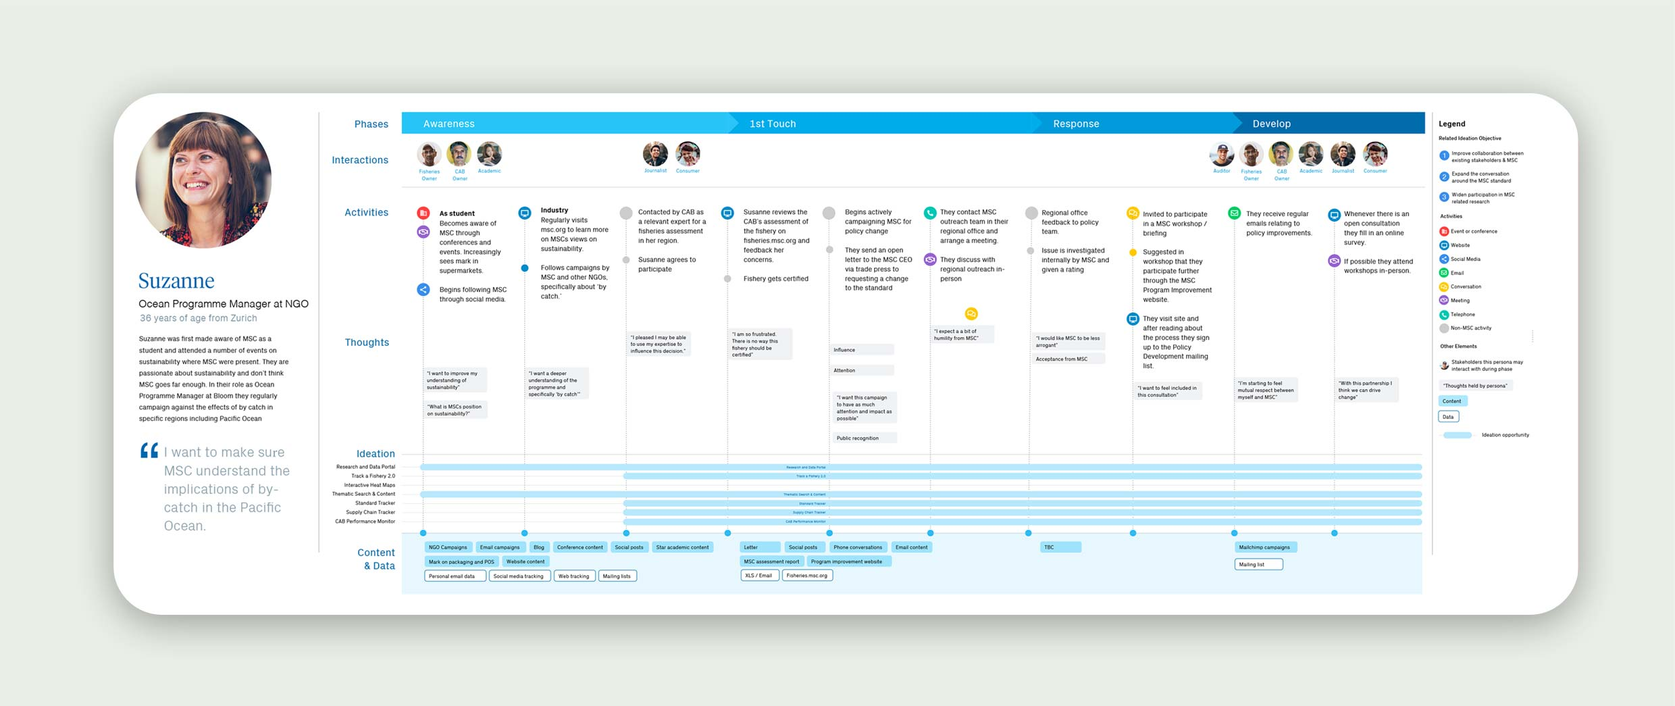
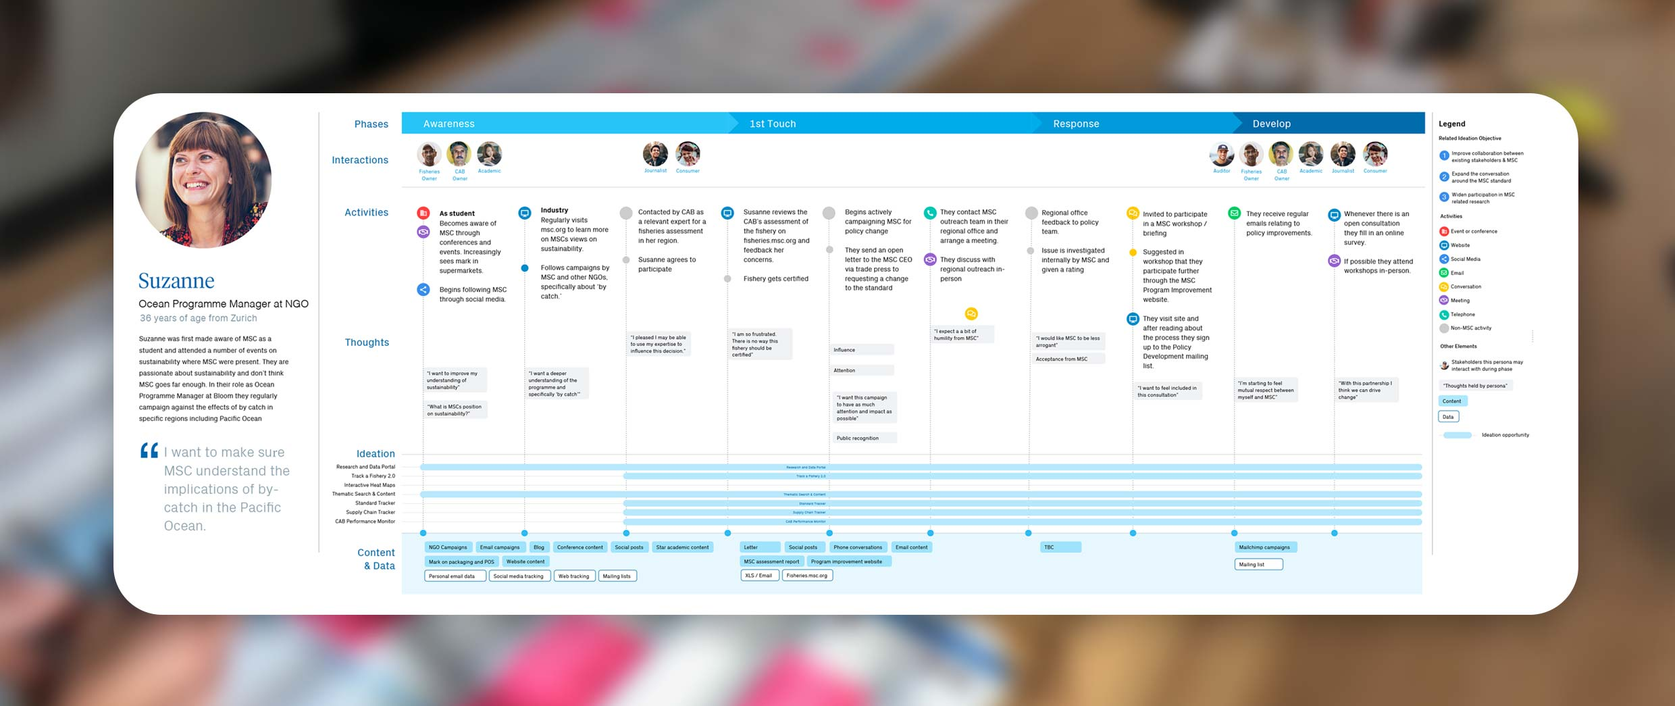
First push of new Scaffold branch
Includes
- new theme
- 1st iteration Astro md template
- templates for home, case studies, projects, thesis.
- light box component
- video component
- scrub function on hero video
- automatic image processing
-

diff --git a/src/content/cases/sustainable-fishing-ngo-mapping-digital-relationships.md b/src/content/cases/sustainable-fishing-ngo-mapping-digital-relationships.md
@@ -2,43 +2,50 @@
 title: "NGO: Mapping Digital Relationships"
 kind: case
 type: protected
-categories: ["Digital Transformation", "UX Design"]
+categories: ["Service Design", "UX Research"]
 client: "Global NGO"
 role: "UX Lead"
 activities: "Discovery research, workshop facilitation, experience mapping"
-year: "2019"
+year: “2019”
 legacyUrl: "https://scottrobinson.co.uk/project/sustainable-fishing-ngo-mapping-digital-relationships/"
 order: 1
 task: "Discovery and experience mapping for an international sustainable fishing NGO, exploring how digital services and data could better support its relationships with stakeholders."
-intro: "An international non-profit setting standards for sustainable fishing wanted to know how its digital services could better support its relationships with fisheries, supply-chain partners, researchers, journalists and NGOs. I co-designed and facilitated full-day workshops with senior staff, and brought what we learned into seven experience maps, one per stakeholder group, refined with the people who knew those relationships first-hand. When a wider transformation programme was reconsidered, the maps helped the organisation reassess what it needed."
-heroImage: "./images/ngo-hero.jpg"
+intro: "An international non-profit setting standards for sustainable fishing wanted to know how its digital services could better support its relationships with fisheries, supply-chain partners, researchers, journalists and NGOs. Building on research from a global website redesign, I co-designed and facilitated three participatory workshops with senior staff and turned the material into seven experience maps, one per stakeholder group. When the agency ceased trading partway through, two colleagues and I adapted the brief and saw the project through. The organisation used the maps as foundation knowledge for a CRM project."
+heroImage: "/media/ngo-hero.jpg"
 heroAlt: "Experience map for Suzanne, an ocean programme manager, showing phases, activities, thoughts and ideation"
-thumbnail: "./images/ngo-thumbnail.jpg"
+thumbnail: "/media/ngo-thumbnail.jpg"
 ---
 
-## Context
+## Relationships across teams and systems
 
 I worked as UX Lead on a discovery project for an international non-profit working to establish standards for sustainable fishing. The organisation works with a wide range of people and organisations — from fisheries and supply-chain partners to researchers, journalists and NGOs — and relies on data, certification processes and long-term relationships to achieve its aims.
 
-The project began by asking how its digital systems could better support those relationships. At the time, the organisation was developing its CRM and dealing with data and processes that had grown across different teams and systems.
+The project began by asking how its digital systems could better support those relationships. It followed a large global redesign of the organisation's website, so it began with desk research into the personas and journey maps from that work. We extended them beyond the website to all digital touchpoints and data. At the time, the organisation was developing its CRM and dealing with data and processes that had grown across different teams and systems.
 
-## Approach
+## Seven experience maps, one per stakeholder group
 
-My role was to understand how those relationships worked across the organisation and make them visible. I co-designed and facilitated a series of full-day workshops with senior staff from different departments, mapping how they worked with different stakeholder groups over time: what information was exchanged, which systems and processes were involved, and where people encountered problems or opportunities.
+My role was to understand how those relationships worked across the organisation and make them visible. I co-designed and facilitated three full-day whiteboarding workshops with senior staff from different departments, mapping seven personas, one for each stakeholder group. These included: CAB Owner, Consumer, CSR Manager at National Retailer, Processing Group Manager at Fishery, trade journalist, Ocean Programme Manager at NGO.
 
-![TODO describe image][image-1]
-![TODO describe image][image-2]
+We worked through how each department dealt with those groups over time, including what information was exchanged, which systems and processes were involved, and where people encountered problems or opportunities.
+The workshops began with breakout groups making posters from their own department's perspective, covering business objectives, pain points, opportunities and current technology.
 
-## Seven experience maps
+I took the workshop material, identified thematic categories and turned them into swimlanes, which became the structure of seven detailed experience maps, one for each stakeholder group. Rather than describing a single user journey, the maps showed the relationship between people, organisational processes, data and digital touchpoints over time.
 
-I brought this material together into seven detailed experience maps, each representing a different stakeholder group. Rather than describing a single user journey through an interface, the maps showed the relationship between people, organisational processes, data and digital touchpoints over time. I took them back into follow-up sessions where they were reviewed, challenged and refined with the people who understood those relationships first-hand.
+![Breakout groups making departmental posters](/media/ngo-discovery-workshop-1.jpg "Figure 1: Breakout groups making departmental posters")
+![Whiteboard mapping one stakeholder groups engagement with MSC digital touchpoints](/media/ngo-discovery-workshop-2.jpg "Figure 2: Whiteboard mapping one stakeholder group's engagement with MSC digital touchpoints")
 
-![TODO describe image][image-3]
+![I began refining the workshop maps by annotated directly on photographs](/media/ngo-discovery-workshop-annotation.jpg "Figure 3: I began refining the workshop maps by annotated directly on photographs")
+![I took the grouping identified in annotations and defined swimlanes](/media/ngo-discover-workshop-output-table.jpg "Figure 4: I took the grouping identified in annotations and defined swimlane")
 
-## What changed
 
-The project changed while we were doing it. A broader digital transformation programme was reconsidered, which meant the original brief no longer made sense in quite the same way. Rather than continuing towards a predetermined solution, we used the research and maps to help the organisation reassess what it needed. They gave teams a shared view of relationships and data that had previously been understood separately, and a way to discuss where digital change might actually be useful.
+## Finishing the work after the agency closed
 
-[image-1]:	./images/ngo-workshop.jpg "Figure 1 · TODO caption"
-[image-2]:	./images/ngo-materials.jpg "Figure 2 · TODO caption"
-[image-3]:	./images/ngo-maps.jpg "Figure 3 · TODO caption"
+Partway through the project, the agency ceased trading. Two colleagues and I carried the project on and saw it through to completion. The wider digital transformation programme was no longer viable, so we adapted the original brief and agreed three rounds of drafts, ending with an in-person review workshop where the same experts challenged and refined the maps hands-on. Working with one group throughout kept internal stakeholders fully engaged in the process.
+The maps gave teams a shared view of relationships and data that had previously been understood separately. The organisation then used our research and maps as foundation knowledge for a CRM project, intended to address some of the opportunities the work had surfaced.
+
+![A review workshop allowed participants to give feedback in-person](/media/ngo-review-workshop-1.jpg "Figure 5: A review workshop allowed participants to give feedback in-person")
+![Participants annotated maps directly with post-its and pens](/media/ngo-review-workshop-2.jpg "Figure 6: Participants annotated maps directly with post-its and pens")
+
+
+![After three drafts seven experience maps were delivered to MSC](/media/ngo-mapping-outputs.jpg "Figure 7: After three drafts seven experience maps were delivered to MSC")
+

diff --git a/src/content/cases/apex-mvp-backlog.md b/src/content/cases/apex-mvp-backlog.md
@@ -1,0 +1,76 @@
+---
+title: "Apex: re-focusing an MVP backlog on user needs"
+kind: case
+type: protected
+categories: ["UX Strategy"]
+client: "KiteEdge"
+role: "UX consultant, then the only UX resource on the MVP"
+activities: "UX strategy, backlog validation, user interviews, personas and journey maps, rapid prototyping, composable search design"
+year: "2018"
+legacyUrl: "https://scottrobinson.co.uk/project/apex-focusing-an-mvp-backlog-on-user-needs/"
+order: 3
+task: "Turn an unowned, untested backlog into a focused MVP."
+intro: "I worked on Apex, KiteEdge's first MVP, a search platform for asset owners built on graph ontologies. Their backlog had grown large with nobody owning it, and none of it had been tested against user needs. First as a UX consultant and then as the only UX resource, I focused it on what users needed, and we delivered the MVP with rapid prototyping built into the development cycle."
+heroImage: "/media/apex-hero.jpg"
+heroAlt: "Apex backlog displayed on office wall"
+thumbnail: "/media/apex-thumbnail.jpg"
+---
+
+## A big vision, and a backlog nobody owned
+
+KiteEdge is a fintech start-up building a financial research search platform that helps asset managers make informed investment decisions. Its search layer combines ontological relationships, complex Boolean queries and graph-based machine learning. Research data was siloed, and Apex set out to remove those silos.
+
+I'd already worked with the company on early UI assets and video prototypes to show its vision to investors. That led to a larger role: developing and running a UX strategy to get the MVP delivered.
+
+The company had a big vision and a huge feature backlog, but nobody owned it. Items were duplicated or poorly documented, and none had been validated against user or market needs, so prioritisation was guesswork.
+
+Some wireframes existed but hadn't been tested. Commercial and development teams didn't share a clear picture of what the MVP needed. I was the only UX resource, so the approach had to be lean and fit the existing development process.
+
+![Apex backlog taken from Jira, rewritten and displayed in the office](/media/apex-backlog-1.jpg "Apex backlog taken from Jira, rewritten and displayed in the office")
+![UX strategy based on Zen Ex Machina two track model](/media/apex-process.jpg "UX strategy based on Zen Ex Machina two track model")
+
+
+## Two learning tracks, running in parallel
+
+We set up a project room to make the backlog visible. Each item was de-duplicated, rewritten and grouped.
+
+I then built the UX strategy on a model from Zen Ex Machina, which runs two learning tracks in parallel.
+
+A long-cycle learning track. Interviews with prospective users and users of comparable products produced personas and user journey maps, and let us validate and prioritise the backlog against real needs. They showed that data was siloed and research had become commoditised: everyone had access to the same reports, so the edge lay in the relationships between them. What worried analysts was what they didn’t know: the connections nobody had spotted yet. Expertise inside their own organisations was often unknown too. Alongside conversations with customers, partners and investors, the research also made clear that we couldn’t compete with established search tools feature for feature. From these insights I worked with the IT Director to define four core functions for the alpha build: core search, core topics, core suggestions and core ontology.
+A short-cycle learning track. I rapidly prototyped ideas in Sketch and InVision to validate designs for each user story before it entered the next sprint. Video prototypes were also used in user interviews to explain complex concepts.
+
+Finding internal experts through user data in the same graph was on the backlog too. It relied on usage data, so it stayed out of the MVP and was never built.
+
+![UX strategy based on Zen Ex Machina two track model](/media/apex-process.jpg "UX strategy based on Zen Ex Machina two track model")
+![Core requirements defined based on user interviews and group for MVP](/media/apex-backlog-cleaned.jpg "ore requirements defined based on user interviews and group for MVP")
+
+## Boolean search for people who don't know Boolean
+
+The hardest design problem was search, which carried two of KiteEdge's USPs. Anyone should be able to build complex Boolean queries without knowing Boolean. And users should be able to explore a visual ontology of search terms to find connections they might not have thought of.
+
+I designed composable search blocks that could be shown either as pure Boolean or as simpler form elements. The blocks also gave advanced users a visual hierarchy for very complex queries.
+
+![Prototype showing different stages of a boolean block search](/media/apex-search-blocks.png "Figure 3: Prototype showing different stages of a boolean block search")
+![Prototype showing ontology viewer](/media/apex-ontology-gold-mining.png "Prototype showing ontology viewer")
+
+![Close perspective of boolean blocks UI](/media/apex-blocks-perspective.jpg "lose perspective of boolean blocks UI")
+
+![Still from boolean search concept video](/media/apex-video-still-1.jpg "Still from boolean search concept video")
+![Still from boolean search concept video](/media/apex-video-still-2.jpg "Still from boolean search concept video")
+
+##One result card for every source
+
+Apex had to show research from whatever tools a client already used, in one list of search results. M&G was the first case. Its meetings, meeting notes and flash notes came from FactSet, and its stock reviews came from CodeRed, and the two were structured very differently.
+
+I designed a generic result card that any source could fill. Each card has a title, an entity type, a line of primary metadata listed in a defined order of priority, and a summary, usually pulled from the attachment. When a keyword search is used, the summary becomes a collation of the passages that mention the term. Secondary metadata, such as the covering analyst, region and sector in FactSet, appears only in the sidebar.
+
+The CodeRed stock reviews showed how uneven real data could be. Some had ratings, outlook, risk, sector and analyst, while others had only a country and a related company. The card had to read well either way, so metadata truncates at the end of its line rather than spilling onto a second one.
+
+![Apex search results item had to accept data from many sources](/media/apex-generic-search-item-1.jpg "Apex search results item had to accept data from many sources")
+![Some of those sources often contained missing or incomplete data](/media/apex-generic-search-item-2.jpg "Some of those sources often contained missing or incomplete data")
+
+## An MVP focused on relationships
+
+The strategy helped the business deliver its MVP, focused on relationships. It had a visually navigable graph built on GICS and our own industry knowledge, and search suggestions drawn from keyword relationships in the graph. Composable search blocks made Boolean search available to any user, and search results linked through to the sections of each document that made it relevant.
+
+Internal resistance to interviewing prospective users and market experts was overcome, which led to better backlog prioritisation. Shared physical workspaces improved communication between business and development teams, and rapid prototyping became part of the existing development cycle.

diff --git a/src/content/cases/strategic-pivot-to-ai-research-platform.md b/src/content/cases/strategic-pivot-to-ai-research-platform.md
@@ -1,18 +1,64 @@
 ---
 title: "Contours: Strategic Pivot to AI Research Platform"
 kind: case
-type: lite   # full | lite | protected  (TODO confirm)
+type: full
 categories: ["Product Strategy"]
 client: "KiteEdge Ltd"
 role: "CPO/CXO"
-activities: "Product Strategy, UX, User Research"
+activities: "Product Strategy & Leadership, UX & Product Design, Research"
 year: "2023–2026"
 legacyUrl: "https://scottrobinson.co.uk/project/strategic-pivot-to-ai-research-platform/"
 order: 2
-task: "TODO"
-intro: "Apex, our research search platform, wasn’t getting traction, and we were running out of runway. Research showed investment firms felt they had to adopt…"   # TODO excerpt from current site, replace with full intro
-heroImage: "TODO"
-thumbnail: "TODO"
+task: "Taking Contours from concept to commercial use, with 50+ active users, 10,000+ documents and 60 research providers."
+intro: "Apex, our research search platform, wasn't getting traction, and we were running out of runway. Research showed investment firms felt they had to adopt AI but feared losing their IP and lacked the expertise to build their own. I made the case to our CEO for dropping five years of code while keeping the design and ideas, and took on the CPO/CXO role through the pivot."
+heroImage: "/media/contours-pivot-hero.jpg"
+thumbnail: "/media/contours-pivot-thumbnail.jpg"
+
 ---
 
-TODO body copy (Lite shows everything up to and including the hero image).
+
+## A search platform built on graph ontologies
+
+I was responsible for researching and designing many features on our AI research platform and some have their own case studies linked throughout this text. This case study is about the bigger decision behind them, why we pivoted, how I made the case for it, and what it taught me.
+
+I joined KiteEdge as a UX consultant in 2018 to help deliver Apex, our first MVP. Apex was a research search platform built on graph ontologies, designed to break down data silos and surface relationships between research that analysts hadn't spotted. However, Apex wasn't getting the traction we needed, development was too slow, and we were running out of runway.
+
+
+
+## A strategic Pivot
+
+ Interviews and conversations with experts showed that investment firms felt they had to adopt AI or be left behind, but didn't know where to start. They were worried about losing their IP to public AI, and didn't have the in-house expertise to build their own. That was our opening: an AI research assistant built on what Apex had taught us.
+
+We kept the design and the ideas, including paragraph-level citations, and dropped the code. Angular's frequent major releases brought breaking changes and constant upgrade work, which took time a team our size couldn't spare. Our senior developer recommended moving to Blazor, so the same developers could share front-end and back-end work, and I backed it.
+
+Letting go of five years of development was a hard decision. I made the case to our CEO that our investment hadn't been wasted, because it had brought us to the point where we could get ahead of the AI wave. It took a lot of convincing. Ultimately, the decision was his, and it was a judgement call rather than a proven case. Through the pivot and the uncertainty that came with it, I was asked to take on the CPO/CXO role.
+
+We built Contours conversation-first, tackling hallucination before search. It was a risk, because analysts weren't used to working that way, but we felt it would set us apart.
+
+## Ideas from Apex, built for AI
+
+Many of the ideas behind Contours came from Apex, including scope, paragraph-level citations, collections, licensed content with organisation, team and user permissions, and an expert network that would find internal experts from usage data. Not all of them were built, but they carried forward on the roadmap. Citation and verification, for example, let analysts move from an AI-generated claim to the supporting passage in the original document.
+
+We wanted AI to work as a trusted research assistant, not an authoritative answer machine. Professionals needed to see what information the AI could use, where an answer came from and what evidence supported it. We captured this in a model we called Define → Reason → Commit → Act.
+
+## Letting current needs drive the backlog
+
+We set out to let current user needs drive the backlog, not Apex's old plans. Multi-modal deep research (MMDR) came from a prospective client's need, and wouldn't have been imaginable in 2018. An independent research provider's senior researchers spent significant time turning existing research into weekly and monthly client bulletins. MMDR reproduced their structure and tone with full citation, reducing that work to minutes. Their first response was: "If you can solve this problem, you have a sale." The proof of concept didn't go ahead, because the provider worried clients would value their research less if AI was involved. Technical capability wasn't enough on its own; adoption depended on trust and professional identity.
+
+As AI sped up development, I set up a workflow that kept design and code in step without design holding up the team. → Read more: Adopting AI-native workflows: keeping design and code in step
+
+## From concept to commercial use
+
+Contours went from concept to commercial use with professional investment teams, with 50+ active users, 10,000+ documents and 60 research providers. MMDR later led to a second proof of concept, producing thematic reports from PubMed data. I stayed hands-on throughout, from mapping workflows and designing in Figma to building the design system and working React interfaces with Claude Code.
+
+## What held us back, and what it taught me
+
+It was the right call. The pivot gave us an MVP we could actually release; without it, I believe we would have failed trying to make another sale with Apex. The move to Blazor paid off too: we ended up with five C# developers who could all cover for each other, and development was quicker. That pace pushed me to implement new design-to-code approaches to keep up.
+
+What held us back was a tension between building a focused tool for a specific user need and the pull towards a bigger vision aimed at investors: decision intelligence and a governance layer. That vision took much of my time and energy. I pushed for features that each solved a clear need, because they showed who we were for and what we were selling. MMDR was the clearest case. But the vision, and the next feature that would make us ready, often won out, and I think that cost us.
+
+### What it taught me:
+
+- A small team can never out-build the big players, so it has to win through specialism. When OpenAI launched ChatGPT for Financial Services, it could have felt like the end of our ambitions. We read it as validation instead. Rather than building a specialist tool, OpenAI had packaged ChatGPT with built-in financial data and ready-made connectors.
+- Research for small, agile teams works best when it's continuous and just enough.
+- Decisions and leadership need to be backed by evidence; otherwise they come down to who argues loudest. I don't talk over people. I'd rather let the evidence speak.

diff --git a/src/content/cases/designing-for-trust.md b/src/content/cases/designing-for-trust.md
@@ -1,0 +1,53 @@
+---
+title: "Designing for trust in AI answers"
+kind: case
+type: protected
+categories: ["Product Design"]
+client: "KiteEdge (Contours)"
+role: "CPO/CXO; lead designer"
+activities: "Product design, prompt engineering, React prototyping"
+year: "2026"
+legacyUrl: "https://scottrobinson.co.uk/project/designing-for-trust-in-ai-answers/"
+order: 4
+task: "Redesign citations so analysts can trust an AI answer and defend it to someone else."
+intro: "Contours answers asset managers' questions from licensed research. The brief was to update citations, which hadn't changed since the MVP. Testing them, I found a bigger trust problem. When the assistant blended several documents into one paragraph, analysts who might disagree read as consensus. I redesigned the citations and wrote prompt rules to keep each analyst's view visible."
+heroImage: ""
+heroAlt: ""
+thumbnail: ""
+---
+
+## When one confident voice flattens several analysts
+
+Contours answers questions from licensed research, so every claim has to trace back to a page in a source. The citations panel didn't follow an academic numbering standard, and had no popover for quick look-up. Citations also had to show different content depending on the user's permissions: licensed, not licensed, or licence pending approval. Where access was missing, the citation needed to offer a licence request action.
+
+When investigating the current implementation of citations, I discovered another issue. When the assistant combined material from several documents into one paragraph, even though it is cited correctly, it stripped out the context that showed where each point came from. A synthesis written in one confident voice flattened several analysts, who may disagree, into apparent consensus. That is a trust problem in how a reader views the synthesised evidence.
+
+## From tidying a panel to defending an answer
+
+I reframed the brief from "tidy up the citations panel" to "help an analyst decide whether to trust this answer, and defend it to someone else."
+
+While testing current citation output, I found the synthesis problem described above. I resolved both.
+
+## Rebuilding the citations
+
+Inline markers follow academic conventions (Vancouver, Chicago, APA), and a style switcher changes only how citations look on screen. The System style cites at a paragraph level.
+
+The popover let analysts step through citations within a response and within a document. It also showed the first three lines of the referenced paragraph.
+
+I prototyped the panel directly in Claude Code as React components, built on the token-based design system.
+
+Licensing state changes what each citation shows, depending on the user's permissions. Licensed content has no badge. Pending approval shows a clock. Unlicensed content shows a padlock, and its popover offers a licence request instead of the quote.
+
+Feedback asked for hover-triggered popovers and full-paragraph quote expansion. I kept click-to-open and short quotes. Hover would have broken navigation between multiple citations, and the popover only needs to confirm the source and hand off to the document viewer.
+
+Testing MMDR with a pharma research template exposed a citation numbering bug, where numbering reset at section boundaries. We fixed it by assigning marker numbers in one pass after generation, using stable per-citation IDs.
+
+## Rules that keep each analyst visible
+
+I wrote prompt-layer rules that require the AI to name the analyst behind each opinion, separate opinion from fact, and flag where sources disagree. I tested them by exporting reports before and after the rules and reading each one against them. Divergence flagging needed its own rule: in one case the data reached the model but wasn't flagged, so a separate rule with a trigger test fixed it.
+
+## Promising, but not validated
+
+The citation feature was released in both the assistant and MMDR. The numbering fix shipped, and in-body author referencing became a user-selectable feature. The release helped us win a proof of concept for a new pharma vertical using PubMed data, which needed academically rigorous citations.
+
+On a before-and-after pair of reports, named analysts in the prose went from none to 48 lines, and interpretation was labelled explicitly seven times. These are counts of presence, not accuracy, and each run was a single generation, so the result is promising but not validated. The prompt rules were not explored further while I was at the company, but I included them in my recommendations for improvement.

diff --git a/src/content/cases/auditing-student-digital-experience-in-a-russell-group-university.md b/src/content/cases/auditing-student-digital-experience-in-a-russell-group-university.md
@@ -1,18 +1,39 @@
 ---
-title: "Designing for student experience"
+title: "Russell Group: Understanding student experience across the university"
 kind: case
-type: lite   # full | lite | protected  (TODO confirm)
-categories: ["User Research"]
+type: protected
+categories: ["UX Research"]
 client: "Russell Group university, via Precedent"
 role: "UX Lead"
 activities: "Workshop facilitation, experience mapping, remote usability testing, research playback"
 year: "2019"
 legacyUrl: "https://scottrobinson.co.uk/project/auditing-student-digital-experience-in-a-russell-group-university/"
 order: 3
-task: "TODO"
-intro: "A Russell Group university wanted to understand how different groups of students, from prospective students to those already studying, experienced its digital services and…"   # TODO excerpt from current site, replace with full intro
-heroImage: "TODO"
-thumbnail: "TODO"
+task: "Understanding how different groups of students experienced digital services and administrative processes at different stages of university life."
+intro: "A Russell Group university wanted to understand how different groups of students, from prospective students to those already studying, experienced its digital services and administrative processes. I designed and led whiteboarding workshops with students and administrative staff, alongside a programme of remote usability testing. The research produced experience maps for four student groups and a short film I edited from the sessions, which we presented to senior stakeholders."
+heroImage: "/media/uol-hero.jpg"
+heroAlt: ""
+thumbnail: "/media/uol-thumbnail.jpg"
 ---
 
-TODO body copy (Lite shows everything up to and including the hero image).
+## Seeing the university from a student's point of view
+
+I worked as UX Lead on a research project for a Russell Group university, looking at how students experienced its digital services and administrative processes across their journey through the university.
+
+The university wanted to understand the experience of different groups of students, from prospective students through to those already studying there. This meant looking beyond individual websites and interfaces to understand how institutional processes, language and organisational boundaries appeared from a student's point of view.
+
+## Workshops and usability testing, side by side
+
+I designed and led a series of whiteboarding workshops with students and administrative staff, using them to reconstruct key experiences and identify where things became difficult, confusing or disconnected. I brought this material together into four personas, expressed as experience maps, each representing a different student group, which we reviewed and refined with the project team.
+
+Alongside this, I led a programme of remote usability testing of the university website with current students, prospective students, faculty members and academics from other institutions. This gave us another way of seeing the organisation from the outside: where its structure made sense to the people working within it but became harder to understand when encountered through its digital services.
+
+thumbnail: "/media/uol-student-maps.jpg"
+
+## Letting stakeholders hear students directly
+
+The research resulted in a set of personas expressed as experience maps, together with a short film I edited from the usability sessions. We presented the work to senior stakeholders as part of a wider programme looking at the university's digital services. The film was particularly effective because stakeholders could see and hear students encountering the problems we had identified rather than only reading about them in a report.
+
+thumbnail: "/media/uol-presentation.jpg"
+
+The work became part of a broader internal discussion about the university's future digital strategy and how its services might better reflect the student experience.
